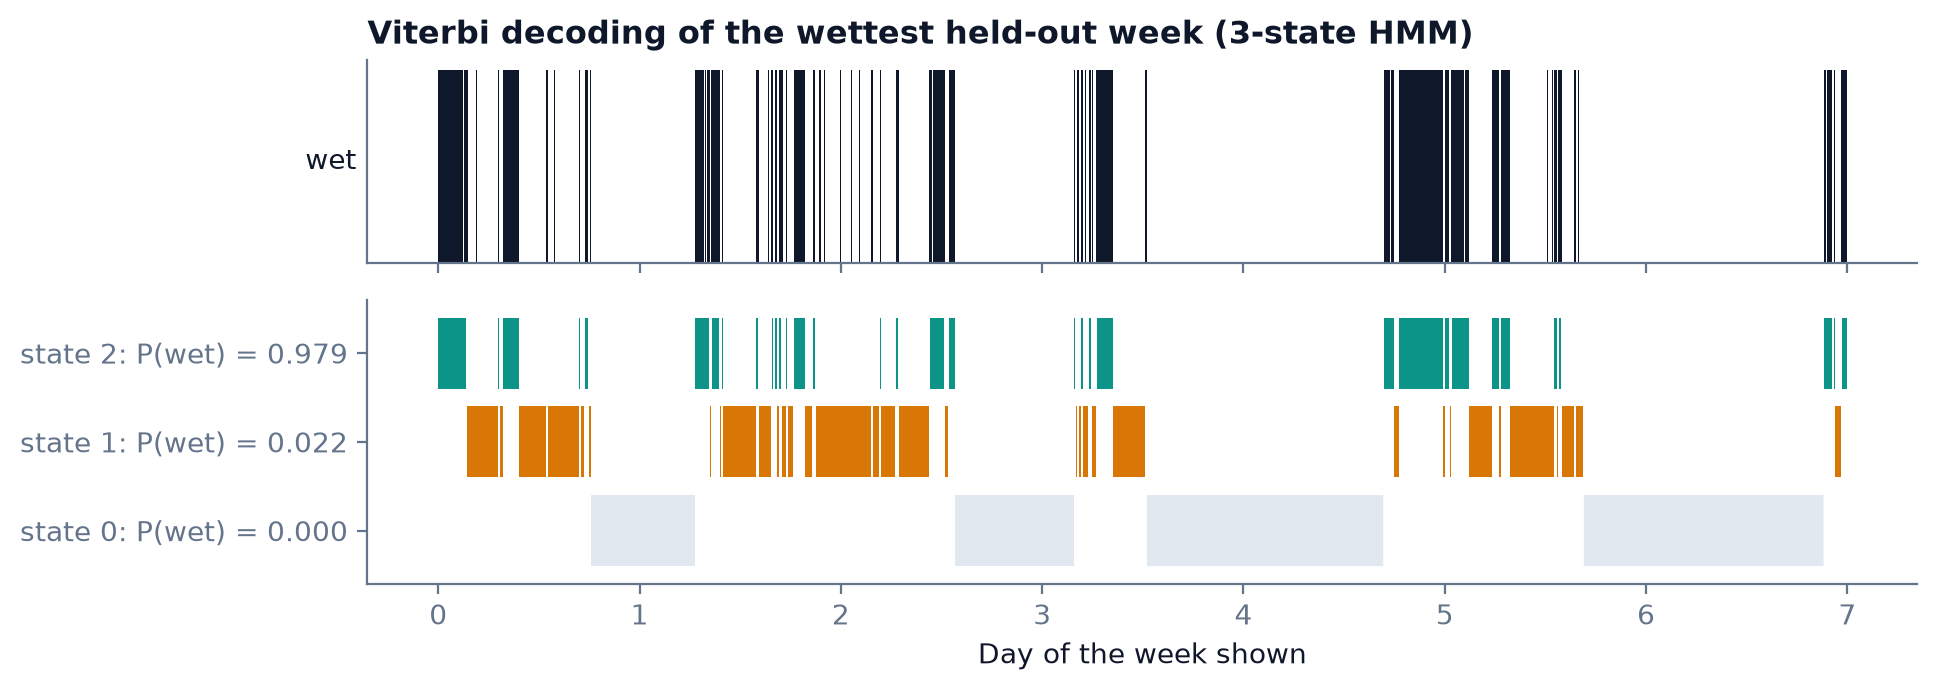
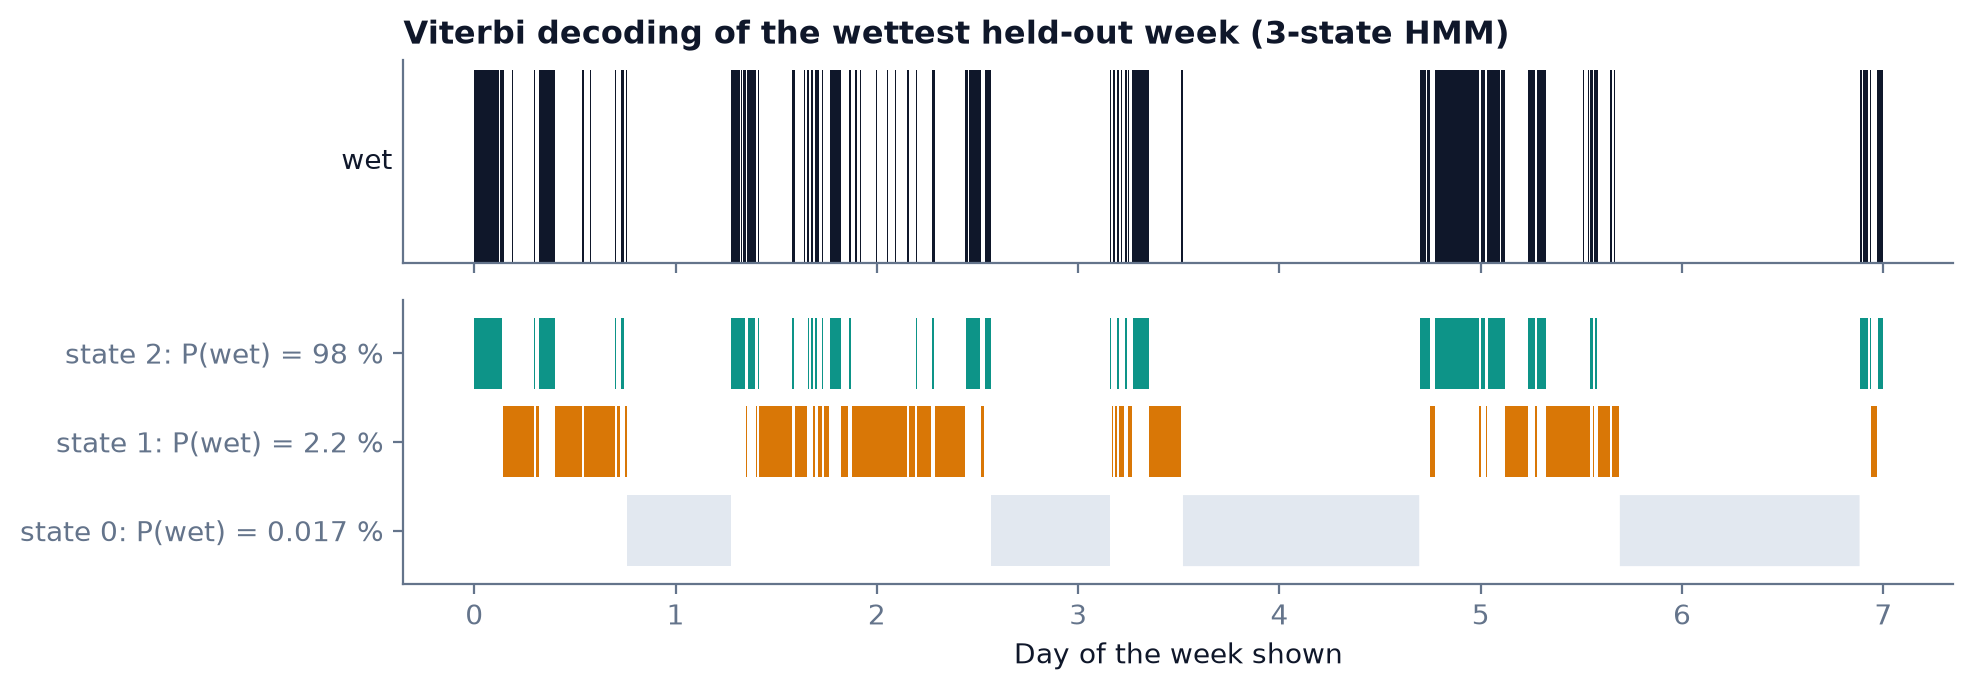
report: hero titles that state the finding exactly, direct labels on the noise chart, readable state probabilities

diff --git a/src/hmm_markov/report.py b/src/hmm_markov/report.py
@@ -54,6 +54,12 @@ def pct(x: float, digits: int = 1) -> str:
     return f"{100 * x:.{digits}f} %"
 
 
+def pct_sig(x: float) -> str:
+    """Percentage that keeps small probabilities readable: 0.00017 -> 0.017 %, 0.98 -> 98 %."""
+    v = 100 * x
+    return (f"{v:.0f}" if v >= 10 else f"{v:.2g}") + " %"
+
+
 def best_loso(words: dict, norm: str) -> dict:
     runs = [
         r for r in words["fsdd"]["leave_one_speaker_out"].values() if r["normalization"] == norm
@@ -92,8 +98,6 @@ def key_numbers(rain: dict, words: dict) -> dict:
         "official_acc": words["fsdd"]["official_split"]["results"][str(k)]["accuracy"],
         "loso_raw": loso[f"none/{k}"]["mean"],
         "loso_cmn": loso[f"cmn/{k}"]["mean"],
-        "loso_cmn_1": loso["cmn/1"]["mean"],
-        "loso_raw_1": loso["none/1"]["mean"],
         "loso_cmn_min": loso[f"cmn/{k}"]["min"],
         "noise20": {name: c["by_snr"][i20] for name, c in noise["curves"].items()},
         "k": k,
@@ -164,7 +168,11 @@ def fig_hero(rain: dict, words: dict, n: dict, path: Path) -> None:
     a1.text(30, 0.5, "Markov chain\n(geometric)", color=SLATE, fontsize=9)
     a1.text(0.12, 0.12, "observed,\nheld-out days", color=INK, fontsize=9)
     a1.text(200, 4e-3, "3-state\nHMM", color=TEAL, fontsize=9, va="center")
-    a1.set_title("Rain: hidden states reproduce the multi-day dry spells\na Markov chain cannot")
+    a1.set_title(
+        "Rain: a 3-state HMM tracks dry spells up to\n"
+        f"~3 days, where a Markov chain is {n['obs_p72'] / n['m1_p72']:.0f}x too low;\n"
+        "longer spells are still too rare"
+    )
 
     loso = words["fsdd"]["leave_one_speaker_out"]
     states = words["protocol"]["states_grid"]
@@ -188,9 +196,9 @@ def fig_hero(rain: dict, words: dict, n: dict, path: Path) -> None:
     a2.set_xlabel("Hidden states per word model (1 = no time structure)")
     a2.set_ylabel("Digit accuracy, speaker left out of training (%)")
     a2.set_title(
-        f"Speech: digits from an unseen speaker are recognised {pct(n['loso_cmn'], 0)}"
-        f" of the time\nwith {n['k']} states + mean normalisation"
-        f" ({pct(n['loso_cmn_1'], 0)} with 1 state)"
+        f"Speech: {pct(n['loso_cmn'], 0)} of digits from unseen speakers\n"
+        f"recognised with {n['k']} states + mean normalisation\n"
+        f"(raw MFCC, {n['k']} states: {pct(n['loso_raw'], 0)})"
     )
     fig.savefig(path)
     plt.close(fig)
@@ -254,7 +262,7 @@ def fig_rain_week(rain: dict, path: Path) -> None:
         a2.fill_between(
             days, s - 0.4, s + 0.4, where=states == s, color=palette[s], step="mid", lw=0
         )
-    a2.set_yticks(range(3), [f"state {s}: P(wet) = {p:.3f}" for s, p in enumerate(p_wet)])
+    a2.set_yticks(range(3), [f"state {s}: P(wet) = {pct_sig(p)}" for s, p in enumerate(p_wet)])
     a2.set_ylim(-0.6, 2.6)
     a2.grid(False)
     a2.set_xlabel("Day of the week shown")
@@ -299,21 +307,35 @@ def fig_noise(words: dict, path: Path) -> None:
         "mfcc": (TEAL, "-"),
         "mfcc_1state": (TEAL, ":"),
     }
-    fig, ax = plt.subplots(figsize=(7.5, 3.8))
+    fig, ax = plt.subplots(figsize=(8.5, 3.8))
     x = np.arange(len(snr))
+    ends = []
     for name, curve in noise["curves"].items():
         color, ls = styles[name]
         y = 100 * np.array([curve["clean"], *curve["by_snr"]])
         label = f"{FEATURE_LABEL[curve['feature']]}, {curve['states']} state" + (
             "s" if curve["states"] > 1 else ""
         )
-        ax.plot(x, y, color=color, ls=ls, lw=2, marker="o", ms=4, label=label)
-    ax.legend(loc="upper right", fontsize=9)
+        ax.plot(x, y, color=color, ls=ls, lw=2, marker="o", ms=4)
+        ends.append((y[-1], label, color))
+    # Direct labels at the right end, pushed apart where curves end on the same value.
+    gap, floor = 6.5, -np.inf
+    for y_end, label, color in sorted(ends):
+        floor = max(y_end, floor + gap)
+        ax.annotate(
+            label,
+            (x[-1], y_end),
+            xytext=(x[-1] + 0.15, floor),
+            color=color,
+            fontsize=9,
+            va="center",
+            arrowprops={"arrowstyle": "-", "color": color, "lw": 0.6, "alpha": 0.6},
+        )
     n_words = len(words["fruits"]["words"])
-    ax.axhline(100 / n_words, color=SLATE, lw=1, ls=":")
+    ax.hlines(100 / n_words, -0.3, x[-1], color=SLATE, lw=1, ls=":")
     ax.text(-0.2, 100 / n_words + 2, f"chance (1/{n_words})", color=SLATE, fontsize=8.5)
     ax.set_xticks(x, snr)
-    ax.set_xlim(-0.3, len(snr) - 0.7)
+    ax.set_xlim(-0.3, len(snr) + 0.9)
     ax.set_ylim(0, 105)
     ax.set_xlabel("Test-time signal-to-noise ratio (white noise; models trained on clean audio)")
     ax.set_ylabel("Fruit-word accuracy (%)")
